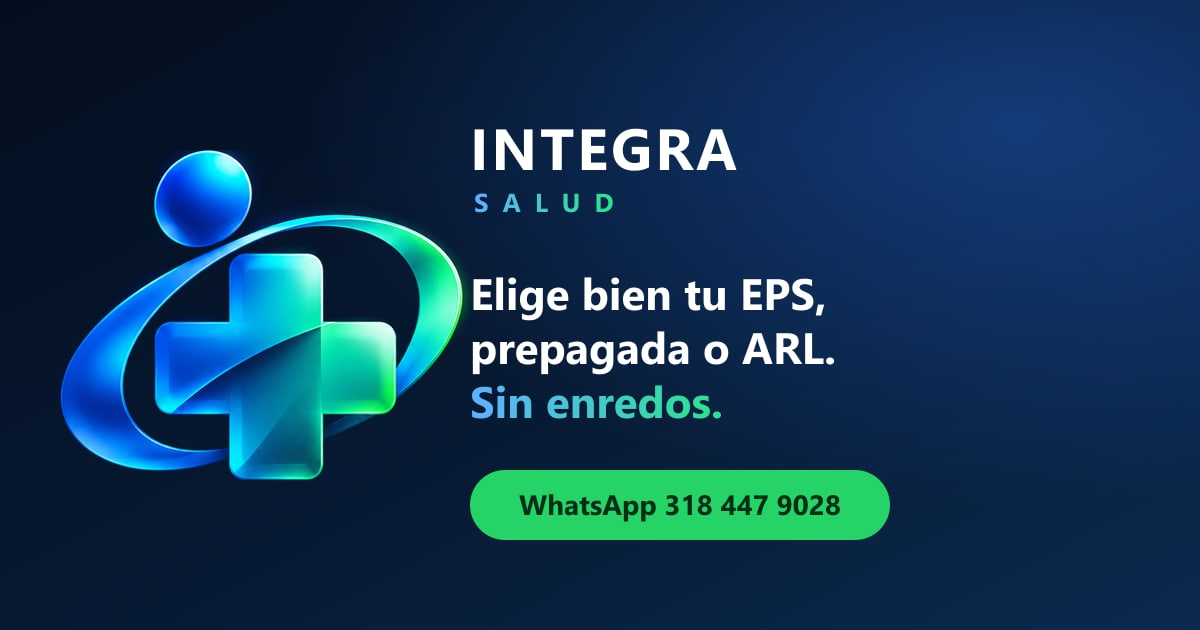
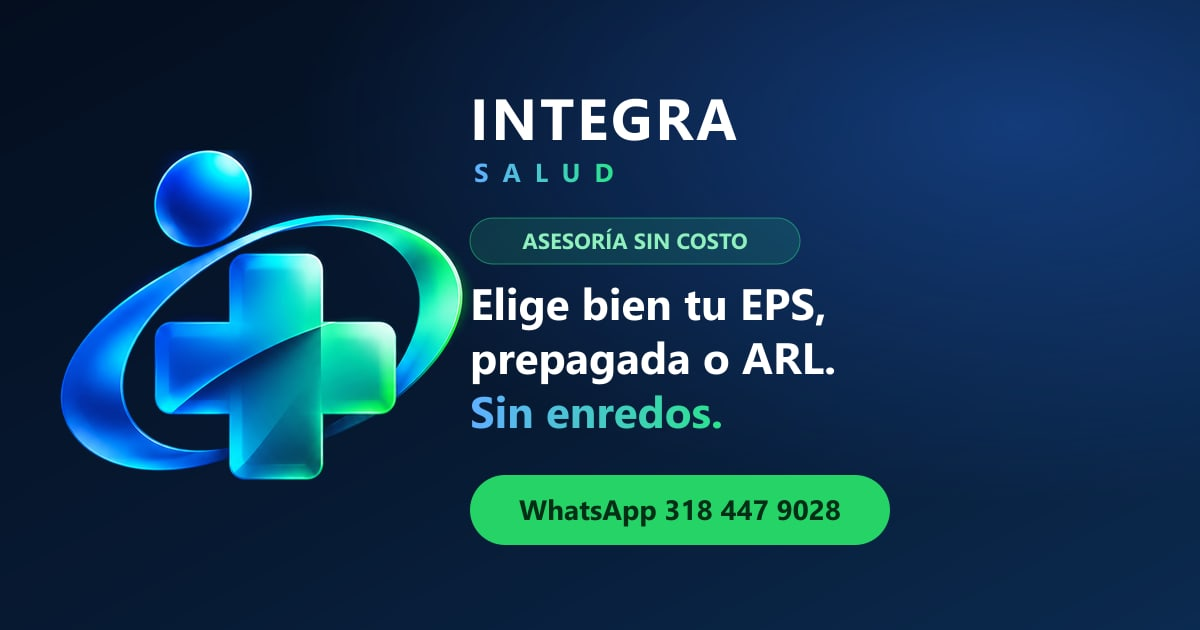
feat: asesoría sin costo, horario, NIT y entidades reales
- "Asesoría sin costo" visible en héroe, quiz, FAQ (también en datos
  estructurados), CTA final e imagen para compartir.
- Horario L-V 7:00–17:00 y sábados 7:00–12:00: en contacto, pie y datos
  estructurados, más aviso automático por hora de Bogotá ("Estamos
  atendiendo ahora" / "te respondemos mañana desde las 7:00 a. m.").
- NIT 53092222 en el pie y en la política de datos.
- Entidades: Sura, Sanitas, Colsanitas, Compensar, Nueva EPS, Salud Total,
  Famisanar y Colmédica.

diff --git a/index.html b/index.html
@@ -6,7 +6,7 @@
     <title>Asesoría en EPS, Medicina Prepagada, ARL y Planes Complementarios | INTEGRA SALUD</title>
     <meta
       name="description"
-      content="Te ayudamos a elegir y tramitar tu EPS, medicina prepagada, plan complementario o ARL en Bogotá y toda Colombia. Asesoría personalizada por WhatsApp para personas, familias, independientes y empresas."
+      content="Asesoría sin costo para elegir y tramitar tu EPS, medicina prepagada, plan complementario o ARL en Bogotá y toda Colombia. Te atendemos por WhatsApp: personas, familias, independientes y empresas."
     />
     <meta name="robots" content="index, follow, max-image-preview:large" />
     <link rel="canonical" href="https://www.integrasalud.co/" />
@@ -18,7 +18,7 @@
     <meta property="og:title" content="INTEGRA SALUD | Elige bien tu salud, sin enredos" />
     <meta
       property="og:description"
-      content="Asesoría en EPS, medicina prepagada, planes complementarios y ARL. Escríbenos por WhatsApp y te orientamos."
+      content="Asesoría sin costo en EPS, medicina prepagada, planes complementarios y ARL. Escríbenos por WhatsApp y te orientamos."
     />
     <meta property="og:url" content="https://www.integrasalud.co/" />
     <meta property="og:image" content="https://www.integrasalud.co/assets/og-image.jpg" />
@@ -59,6 +59,12 @@
             "email": "Saludtotal390@gmail.com",
             "address": { "@type": "PostalAddress", "addressLocality": "Bogotá D.C.", "addressCountry": "CO" },
             "areaServed": { "@type": "Country", "name": "Colombia" },
+            "taxID": "53092222",
+            "priceRange": "Asesoría sin costo",
+            "openingHoursSpecification": [
+              { "@type": "OpeningHoursSpecification", "dayOfWeek": ["Monday", "Tuesday", "Wednesday", "Thursday", "Friday"], "opens": "07:00", "closes": "17:00" },
+              { "@type": "OpeningHoursSpecification", "dayOfWeek": "Saturday", "opens": "07:00", "closes": "12:00" }
+            ],
             "knowsLanguage": "es",
             "hasOfferCatalog": {
               "@type": "OfferCatalog",
@@ -89,7 +95,7 @@
         "@context": "https://schema.org",
         "@type": "FAQPage",
         "mainEntity": [
-          { "@type": "Question", "name": "¿Cuánto cuesta la asesoría?", "acceptedAnswer": { "@type": "Answer", "text": "Escríbenos sin compromiso: te contamos desde el primer mensaje si tu caso tiene algún costo. Primero entendemos qué necesitas y luego te mostramos las opciones." } },
+          { "@type": "Question", "name": "¿Cuánto cuesta la asesoría?", "acceptedAnswer": { "@type": "Answer", "text": "Nada. La asesoría es sin costo para ti: te explicamos, comparamos opciones y te acompañamos en el trámite sin cobrarte por ello. Solo pagas el plan que elijas, directamente a la entidad." } },
           { "@type": "Question", "name": "¿Puedo tener medicina prepagada sin estar en una EPS?", "acceptedAnswer": { "@type": "Answer", "text": "No. En Colombia la medicina prepagada y los planes complementarios son adicionales: debes seguir afiliado a una EPS y al día con tus aportes a salud." } },
           { "@type": "Question", "name": "¿Cuál es la diferencia entre un plan complementario y la medicina prepagada?", "acceptedAnswer": { "@type": "Answer", "text": "El plan complementario lo ofrece tu propia EPS y mejora la comodidad del servicio, como citas más ágiles o una red más amplia. La medicina prepagada la ofrece una empresa especializada y suele dar acceso directo a especialistas y a una red de clínicas más amplia; normalmente cuesta más. Las condiciones exactas dependen de cada entidad." } },
           { "@type": "Question", "name": "¿Cuándo me puedo cambiar de EPS?", "acceptedAnswer": { "@type": "Answer", "text": "Por regla general debes llevar al menos un año en tu EPS actual para trasladarte, aunque hay excepciones. Revisamos tu caso y te decimos si ya puedes hacerlo y cómo." } },
@@ -159,7 +165,7 @@
       <section class="hero" id="inicio" aria-labelledby="hero-title">
         <div class="container hero-grid">
           <div class="hero-copy">
-            <p class="eyebrow"><span class="dot" aria-hidden="true"></span> Asesoría en salud · Bogotá y toda Colombia</p>
+            <p class="eyebrow"><span class="dot" aria-hidden="true"></span> Asesoría 100% sin costo · Bogotá y toda Colombia</p>
             <h1 id="hero-title">Elige bien tu EPS, medicina prepagada o ARL. <span class="accent">Sin enredos.</span></h1>
             <p class="lead">
               Te explicamos tus opciones en palabras simples, comparamos por ti y te acompañamos en el trámite.
@@ -172,10 +178,11 @@
               <a class="btn btn-ghost btn-lg" href="#encuentra" data-track="quiz_hero">Encuentra tu opción <svg class="icon" aria-hidden="true"><use href="#i-arrow" /></svg></a>
             </div>
             <ul class="hero-points">
-              <li><svg class="icon" aria-hidden="true"><use href="#i-check" /></svg> Sin compromiso</li>
+              <li><svg class="icon" aria-hidden="true"><use href="#i-check" /></svg> Asesoría sin costo</li>
               <li><svg class="icon" aria-hidden="true"><use href="#i-check" /></svg> Respuesta rápida por WhatsApp</li>
               <li><svg class="icon" aria-hidden="true"><use href="#i-check" /></svg> Te acompañamos en el trámite</li>
             </ul>
+            <p class="open-status open-status-dark" data-open-status hidden></p>
             <p class="hero-proof"><strong>+500 personas</strong> ya recibieron asesoría para afiliarse o elegir su plan.</p>
           </div>
 
@@ -204,13 +211,16 @@
       <!-- ============ ENTIDADES ============ -->
       <section class="entities" aria-labelledby="entidades-title">
         <div class="container">
-          <h2 id="entidades-title" class="entities-title">Te orientamos sobre opciones de entidades como</h2>
+          <h2 id="entidades-title" class="entities-title">Trabajamos con opciones de</h2>
           <ul class="entities-list">
-            <li>Colmédica</li>
-            <li>Allianz</li>
             <li>Sura</li>
-            <li>Salud Total</li>
+            <li>Sanitas</li>
+            <li>Colsanitas</li>
             <li>Compensar</li>
+            <li>Nueva EPS</li>
+            <li>Salud Total</li>
+            <li>Famisanar</li>
+            <li>Colmédica</li>
           </ul>
           <p class="fine">Los nombres se mencionan como referencia. Las condiciones y precios dependen de cada entidad.</p>
         </div>
@@ -225,7 +235,7 @@
             <p>Responde 3 preguntas y te escribimos con una recomendación según tu caso. Sin formularios largos.</p>
             <ul class="check-list">
               <li><svg class="icon" aria-hidden="true"><use href="#i-check" /></svg> Te respondemos por WhatsApp</li>
-              <li><svg class="icon" aria-hidden="true"><use href="#i-check" /></svg> Sin compromiso de compra</li>
+              <li><svg class="icon" aria-hidden="true"><use href="#i-check" /></svg> Asesoría sin costo y sin compromiso</li>
               <li><svg class="icon" aria-hidden="true"><use href="#i-check" /></svg> Tus datos solo se usan para asesorarte</li>
             </ul>
           </div>
@@ -450,7 +460,7 @@
           <div>
             <p class="kicker kicker-light">Por qué INTEGRA SALUD</p>
             <h2 id="porque-title">Una persona que te explica, compara y responde por ti</h2>
-            <p class="why-lead">No es un chatbot ni un formulario que nadie lee. Es acompañamiento real, de principio a fin.</p>
+            <p class="why-lead">No es un chatbot ni un formulario que nadie lee. Es acompañamiento real, de principio a fin, y sin costo para ti.</p>
             <a class="btn btn-wa btn-lg" href="https://wa.me/573184479028" data-wa="Hola, quiero asesoría en salud con INTEGRA SALUD." data-track="wa_why" target="_blank" rel="noopener">
               <svg class="icon" aria-hidden="true"><use href="#i-wa" /></svg> Hablar con un asesor
             </a>
@@ -495,7 +505,7 @@
           <div class="faq">
             <details>
               <summary>¿Cuánto cuesta la asesoría?</summary>
-              <p>Escríbenos sin compromiso: te contamos desde el primer mensaje si tu caso tiene algún costo. Primero entendemos qué necesitas y luego te mostramos las opciones.</p>
+              <p><strong>Nada.</strong> La asesoría es sin costo para ti: te explicamos, comparamos opciones y te acompañamos en el trámite sin cobrarte por ello. Solo pagas el plan que elijas, directamente a la entidad.</p>
             </details>
             <details>
               <summary>¿Puedo tener medicina prepagada sin estar en una EPS?</summary>
@@ -537,10 +547,12 @@
             <p class="kicker">Contacto</p>
             <h2 id="contacto-title">Hablemos de tu caso</h2>
             <p>Déjanos tus datos y abrimos WhatsApp con tu mensaje listo, o contáctanos directamente.</p>
+            <p class="open-status" data-open-status hidden></p>
             <ul class="contact-list">
               <li><svg class="icon" aria-hidden="true"><use href="#i-wa" /></svg><a href="https://wa.me/573184479028" data-wa="Hola, quiero asesoría en salud con INTEGRA SALUD." data-track="wa_contact" target="_blank" rel="noopener">WhatsApp 318 447 9028</a></li>
               <li><svg class="icon" aria-hidden="true"><use href="#i-phone" /></svg><a href="tel:+573184479028" data-track="call_contact">Llamar al 318 447 9028</a></li>
               <li><svg class="icon" aria-hidden="true"><use href="#i-mail" /></svg><a href="mailto:Saludtotal390@gmail.com">Saludtotal390@gmail.com</a></li>
+              <li><svg class="icon" aria-hidden="true"><use href="#i-clock" /></svg><span>Lunes a viernes 7:00 a. m. – 5:00 p. m.<br />Sábados 7:00 a. m. – 12:00 m.</span></li>
               <li><svg class="icon" aria-hidden="true"><use href="#i-pin" /></svg><span>Bogotá D.C. · Atención virtual en toda Colombia</span></li>
             </ul>
           </div>
@@ -589,7 +601,7 @@
       <section class="final-cta" aria-labelledby="cta-title">
         <div class="container final-inner">
           <h2 id="cta-title">Tu salud y la de tu familia merecen una buena decisión</h2>
-          <p>Escríbenos hoy y en pocos minutos empiezas a ver tus opciones.</p>
+          <p>La asesoría es sin costo. Escríbenos hoy y empieza a ver tus opciones.</p>
           <div class="hero-actions center">
             <a class="btn btn-wa btn-lg" href="https://wa.me/573184479028" data-wa="Hola, quiero asesoría en salud con INTEGRA SALUD." data-track="wa_final" target="_blank" rel="noopener">
               <svg class="icon" aria-hidden="true"><use href="#i-wa" /></svg> Quiero mi asesoría
@@ -627,11 +639,12 @@
             <li><a href="tel:+573184479028" data-track="call_footer">318 447 9028</a></li>
             <li><a href="mailto:Saludtotal390@gmail.com">Saludtotal390@gmail.com</a></li>
             <li>Bogotá D.C., Colombia</li>
+            <li>L-V 7:00 a. m. – 5:00 p. m. · Sáb. 7:00 a. m. – 12:00 m.</li>
           </ul>
         </div>
       </div>
       <div class="container legal">
-        <p>© <span id="year">2026</span> INTEGRA SALUD. Todos los derechos reservados.</p>
+        <p>© <span id="year">2026</span> INTEGRA SALUD · NIT 53092222. Todos los derechos reservados.</p>
         <p>
           La información de este sitio es orientativa; coberturas, condiciones y precios dependen de cada entidad.
           <a href="politica-de-privacidad.html">Política de tratamiento de datos (Ley 1581 de 2012)</a>.

diff --git a/js/main.js b/js/main.js
@@ -222,6 +222,65 @@
     });
   }
 
+  /* ---------- Estado de atención (hora de Colombia) ---------- */
+  const DAY_NAMES = ["domingo", "lunes", "martes", "miércoles", "jueves", "viernes", "sábado"];
+
+  function toMinutes(time) {
+    const parts = time.split(":");
+    return Number(parts[0]) * 60 + Number(parts[1]);
+  }
+
+  function formatTime(time) {
+    const minutes = toMinutes(time);
+    const hour = Math.floor(minutes / 60);
+    const rest = String(minutes % 60).padStart(2, "0");
+    if (hour === 12 && rest === "00") return "12:00 m.";
+    return ((hour + 11) % 12) + 1 + ":" + rest + (hour < 12 ? " a. m." : " p. m.");
+  }
+
+  /** Día y minuto actuales en Bogotá, sin importar la zona horaria del visitante. */
+  function bogotaNow() {
+    const parts = new Intl.DateTimeFormat("en-US", {
+      timeZone: "America/Bogota",
+      weekday: "short",
+      hour: "2-digit",
+      minute: "2-digit",
+      hourCycle: "h23",
+    }).formatToParts(new Date());
+    const get = (type) => (parts.find((part) => part.type === type) || {}).value;
+    const day = ["Sun", "Mon", "Tue", "Wed", "Thu", "Fri", "Sat"].indexOf(get("weekday"));
+    return { day: day, minutes: Number(get("hour")) * 60 + Number(get("minute")) };
+  }
+
+  function openStatus() {
+    const schedule = config.schedule;
+    if (!Array.isArray(schedule) || !schedule.length) return null;
+    const now = bogotaNow();
+    const today = schedule.find((slot) => slot.days.indexOf(now.day) !== -1);
+    if (today && now.minutes >= toMinutes(today.open) && now.minutes < toMinutes(today.close)) {
+      return { open: true, text: "Estamos atendiendo ahora · hasta las " + formatTime(today.close) };
+    }
+    // Próxima apertura (hoy más tarde o en los próximos días)
+    for (let offset = 0; offset < 8; offset++) {
+      const day = (now.day + offset) % 7;
+      const slot = schedule.find((item) => item.days.indexOf(day) !== -1);
+      if (!slot || (offset === 0 && now.minutes >= toMinutes(slot.open))) continue;
+      const when = offset === 0 ? "hoy" : offset === 1 ? "mañana" : "el " + DAY_NAMES[day];
+      return { open: false, text: "Escríbenos ya: te respondemos " + when + " desde las " + formatTime(slot.open) };
+    }
+    return null;
+  }
+
+  function setupOpenStatus() {
+    const status = openStatus();
+    if (!status) return;
+    qsa("[data-open-status]").forEach((node) => {
+      node.textContent = status.text;
+      node.classList.toggle("is-open", status.open);
+      node.hidden = false;
+    });
+  }
+
   /* ---------- Aparición suave al hacer scroll ---------- */
   function setupReveal() {
     if (!("IntersectionObserver" in window)) return;
@@ -255,6 +314,7 @@
     setupMenu();
     setupQuiz();
     setupLeadForm();
+    setupOpenStatus();
     setupReveal();
     const year = qs("#year");
     if (year) year.textContent = String(new Date().getFullYear());

diff --git a/politica-de-privacidad.html b/politica-de-privacidad.html
@@ -44,11 +44,11 @@
 
       <h2>1. Responsable del tratamiento</h2>
       <div class="box">
-        <!-- Completar con la razón social y el NIT o documento del responsable -->
-        <p><strong>INTEGRA SALUD</strong><br />
+        <p><strong>INTEGRA SALUD</strong> · NIT 53092222<br />
           Domicilio: Bogotá D.C., Colombia<br />
           Correo: <a href="mailto:Saludtotal390@gmail.com">Saludtotal390@gmail.com</a><br />
-          Teléfono y WhatsApp: <a href="tel:+573184479028">318 447 9028</a></p>
+          Teléfono y WhatsApp: <a href="tel:+573184479028">318 447 9028</a><br />
+          Horario: lunes a viernes de 7:00 a. m. a 5:00 p. m. y sábados de 7:00 a. m. a 12:00 m.</p>
       </div>
 
       <h2>2. Datos que recolectamos</h2>
@@ -104,7 +104,7 @@
 
     <footer class="footer">
       <div class="container legal">
-        <p>© 2026 INTEGRA SALUD. Información orientativa; condiciones sujetas a cada entidad.</p>
+        <p>© 2026 INTEGRA SALUD · NIT 53092222. Información orientativa; condiciones sujetas a cada entidad.</p>
       </div>
     </footer>
   </body>

diff --git a/css/styles.css b/css/styles.css
@@ -849,6 +849,50 @@ p {
   margin-left: auto;
 }
 
+/* ---------- Estado de atención ---------- */
+.open-status {
+  display: inline-flex;
+  align-items: center;
+  gap: 0.5rem;
+  font-size: 0.92rem;
+  font-weight: 700;
+  color: #7a4a00;
+  background: #fff4dc;
+  border-radius: 999px;
+  padding: 0.4rem 0.9rem;
+  margin: 0.4rem 0 0;
+}
+
+.open-status::before {
+  content: "";
+  width: 9px;
+  height: 9px;
+  border-radius: 50%;
+  background: #f5a524;
+  flex: none;
+}
+
+.open-status.is-open {
+  color: var(--mint-700);
+  background: #e3f8ee;
+}
+
+.open-status.is-open::before {
+  background: var(--wa);
+  box-shadow: 0 0 0 4px rgba(37, 211, 102, 0.2);
+}
+
+.open-status-dark {
+  margin-top: 1.2rem;
+  color: #ffd98a;
+  background: rgba(245, 165, 36, 0.12);
+}
+
+.open-status-dark.is-open {
+  color: #8ff0bd;
+  background: rgba(43, 227, 143, 0.12);
+}
+
 /* ---------- Dolores ---------- */
 .pains {
   display: grid;

diff --git a/config/site.config.js b/config/site.config.js
@@ -14,6 +14,11 @@ window.SITE_CONFIG = {
     whatsappDefaultMessage: "Hola, quiero asesoría en salud con INTEGRA SALUD.",
     phoneLink: "tel:+573184479028",
   },
+  /** Horario de atención (hora de Colombia). Días: 0 = domingo … 6 = sábado. */
+  schedule: [
+    { days: [1, 2, 3, 4, 5], open: "07:00", close: "17:00" },
+    { days: [6], open: "07:00", close: "12:00" },
+  ],
   analytics: {
     /** ID de Google Analytics 4 (ej. "G-XXXXXXX"). Vacío = desactivado. */
     ga4Id: "",

diff --git a/README.md b/README.md
@@ -29,6 +29,8 @@ Todos los botones de WhatsApp (16) llevan un mensaje distinto. Cuando escriba un
 | Quiero cambiar… | Dónde |
 | --- | --- |
 | Número de WhatsApp, mensaje por defecto, teléfono | `config/site.config.js` **y** busca `3184479028` en `index.html` (Ctrl+F → reemplazar todo) |
+| Horario | `config/site.config.js` → `schedule` (aviso automático “Estamos atendiendo ahora” / “te respondemos mañana…”) **y** los textos de horario en `index.html` |
+| Entidades | `index.html`, sección `ENTIDADES` |
 | Textos, servicios, preguntas frecuentes | `index.html` (cada sección está marcada con un comentario `<!-- ===== -->`) |
 | Colores | `css/styles.css`, al inicio (`--navy-900`, `--wa`, etc.) |
 | Google Analytics / Pixel de Meta | `config/site.config.js` → `analytics.ga4Id` y `analytics.metaPixelId` |
@@ -94,16 +96,14 @@ favicon.ico, site.webmanifest, sitemap.xml, robots.txt
 
 ## ✅ Pendientes del cliente
 
-- [ ] Confirmar o comprar el dominio `integrasalud.co`.
-- [ ] Correo propio del negocio (p. ej. `contacto@integrasalud.co`) en lugar de `Saludtotal390@gmail.com`.
-- [ ] Razón social y NIT (o cédula) del responsable, para la política de datos.
-- [ ] Confirmar que la cifra “+500 personas asesoradas” es real.
-- [ ] Confirmar el costo de la asesoría (si es gratis, decirlo vende más: “Asesoría sin costo”).
-- [ ] Confirmar con qué entidades se trabaja realmente (Colmédica, Allianz, Sura, Salud Total, Compensar).
-- [ ] Horario de atención.
-- [ ] Testimonios reales con autorización (nombre, ciudad y texto).
+**Ya definido:** asesoría sin costo para el cliente · NIT 53092222 · horario L-V 7:00 a. m.–5:00 p. m. y sábados 7:00 a. m.–12:00 m. · entidades: Sura, Sanitas, Colsanitas, Compensar, Nueva EPS, Salud Total, Famisanar y Colmédica · correo actual `Saludtotal390@gmail.com`.
+
+- [ ] Comprar el dominio (`integrasalud.co` u otro) y, si cambia, reemplazarlo como se indica arriba.
+- [ ] (Opcional) correo propio con el dominio, p. ej. `contacto@integrasalud.co`.
+- [ ] Confirmar que la cifra “+500 personas asesoradas” es real (en `index.html`, sección héroe).
+- [ ] Testimonios reales con autorización (nombre, ciudad y texto), cuando los haya.
 - [ ] Foto real del asesor o del equipo (aumenta mucho la confianza).
-- [ ] Enlaces reales de Instagram, Facebook y TikTok, si existen.
+- [ ] Enlaces de Instagram, Facebook y TikTok, si existen.
 - [ ] IDs de Google Analytics y Pixel de Meta.
 
 ---
